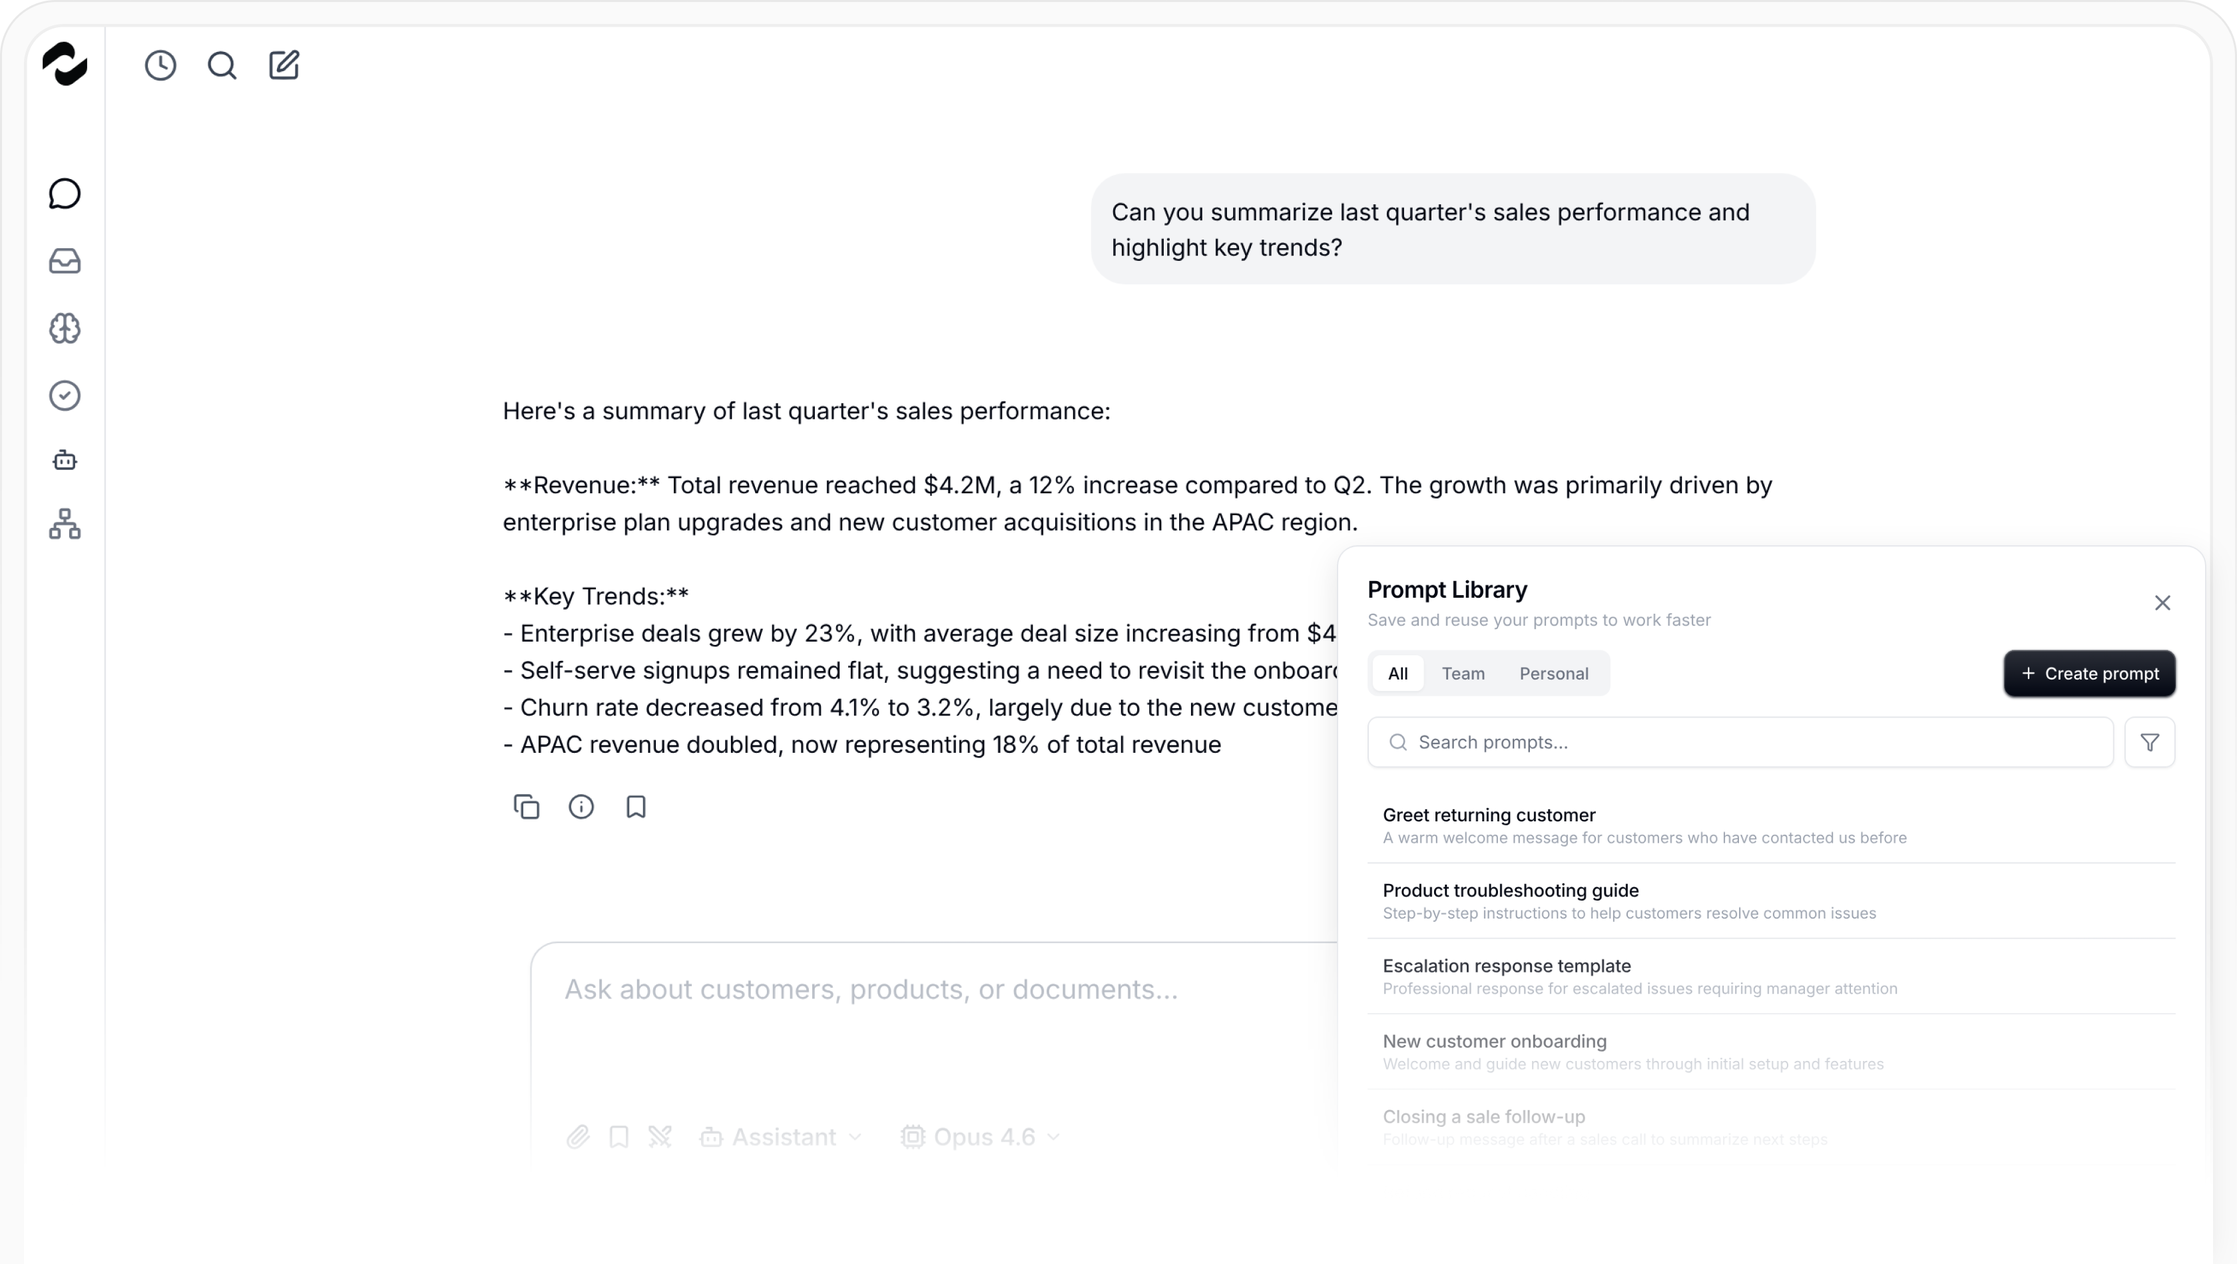
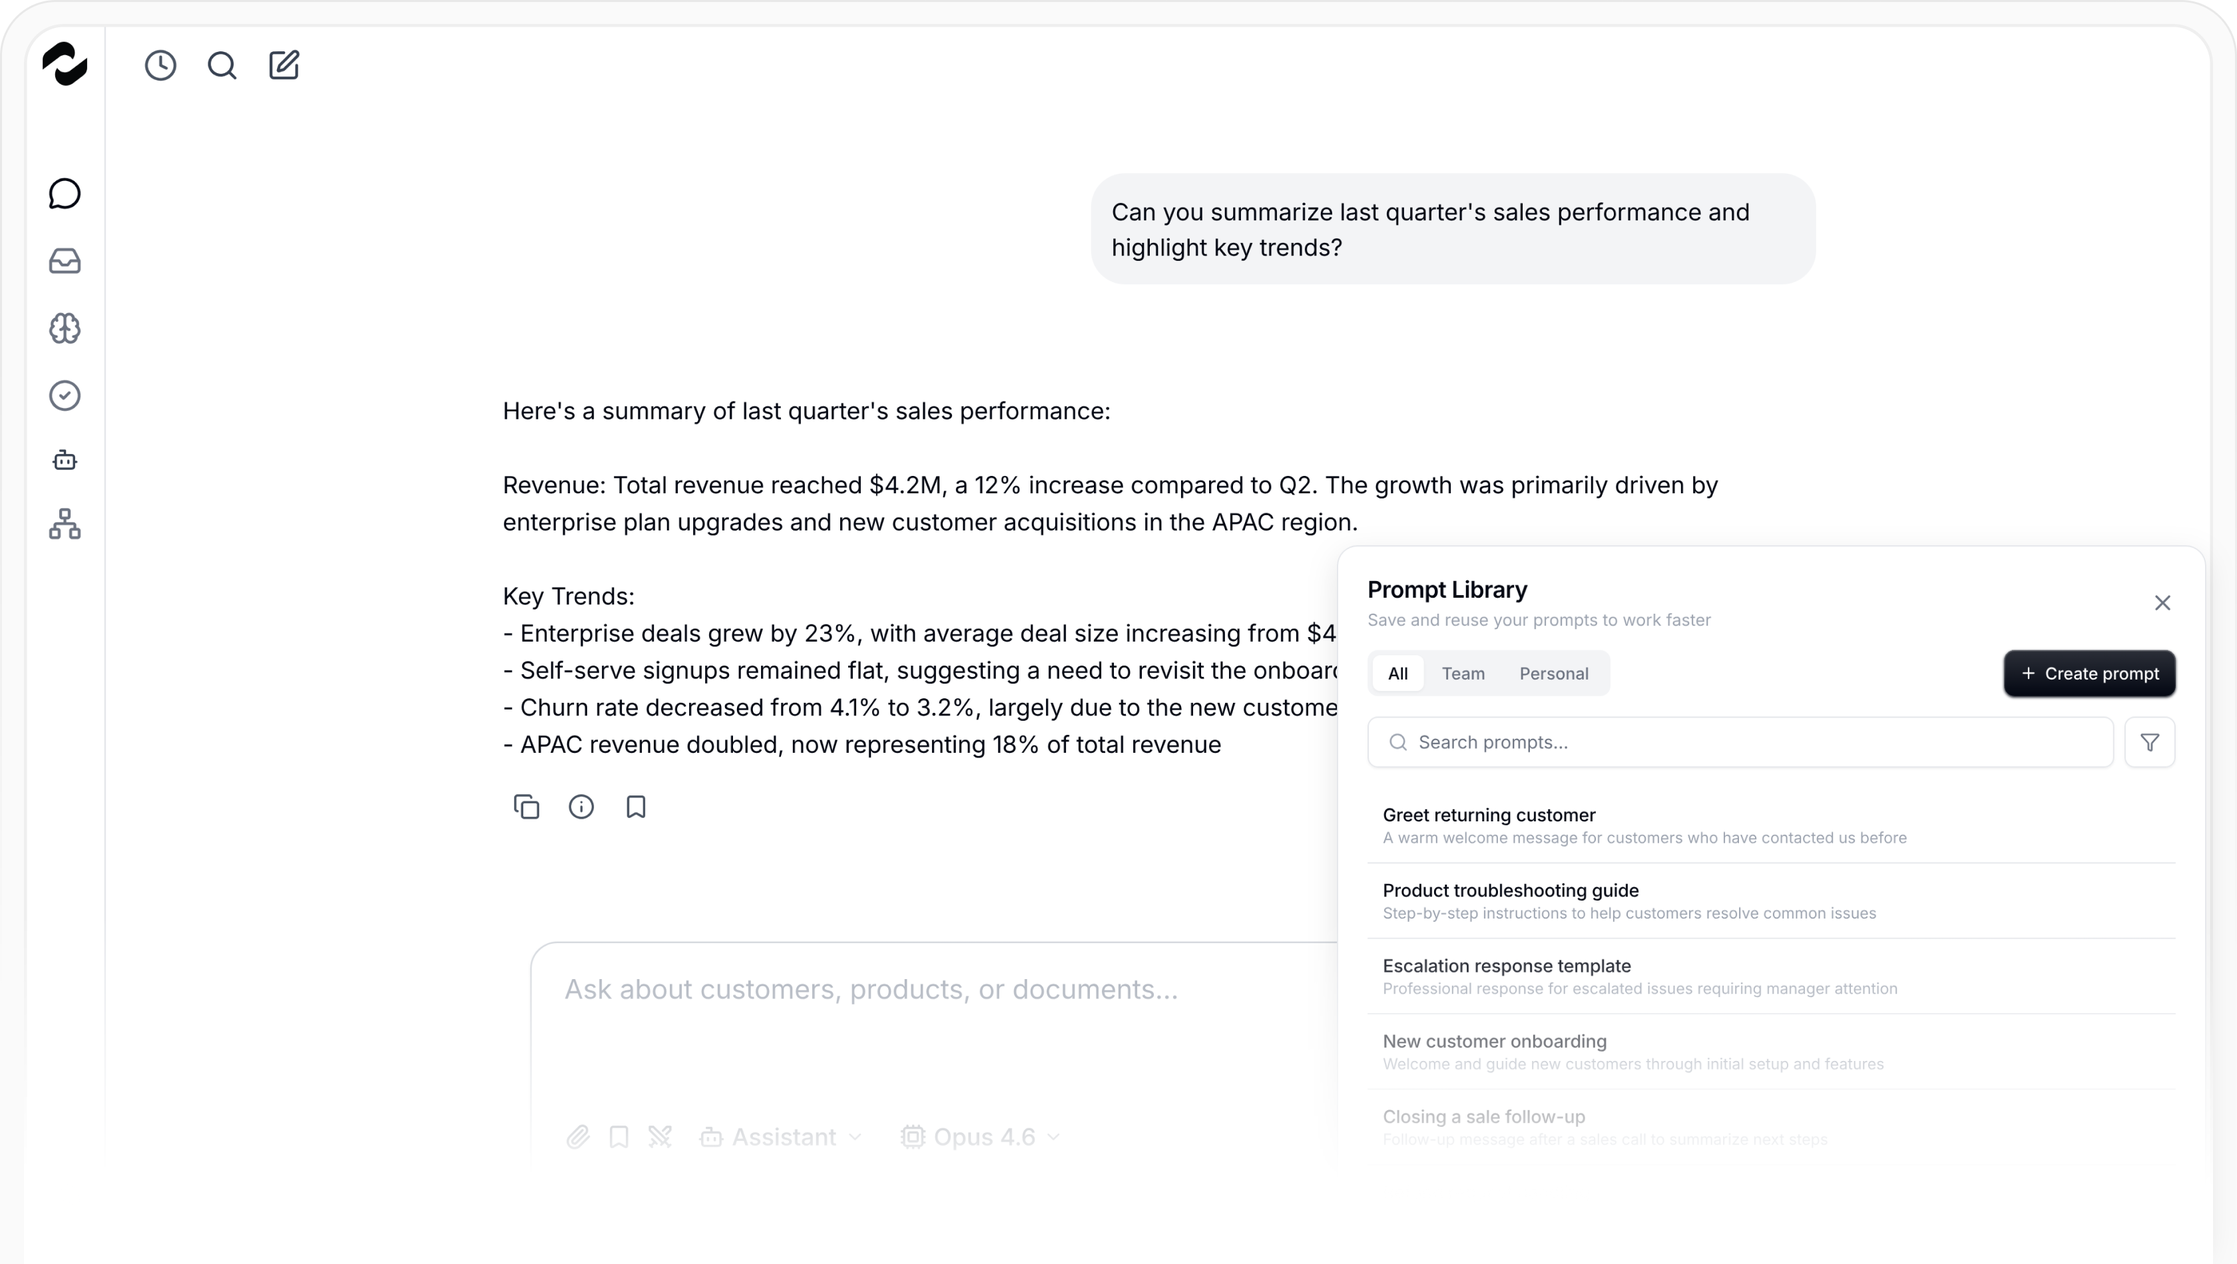
Raise form-label contrast, polish filter + email surfaces, refresh feature-chat image (#1834)

Changed region(s): [[0.2188, 0.3728, 0.7812, 0.4039], [0.2188, 0.466, 0.3125, 0.4971]]

diff --git a/services/platform/app/features/settings/account/components/account-form.tsx b/services/platform/app/features/settings/account/components/account-form.tsx
@@ -4,7 +4,6 @@ import { zodResolver } from '@hookform/resolvers/zod';
 import { Button } from '@tale/ui/button';
 import { SkeletonText } from '@tale/ui/skeleton';
 import { Skeletonize, useSkeleton } from '@tale/ui/skeleton-context';
-import { Text } from '@tale/ui/text';
 import { useCallback, useMemo, useState } from 'react';
 import { useForm } from 'react-hook-form';
 import { z } from 'zod';
@@ -55,8 +54,7 @@ interface SetPasswordFormData {
 // wraps the real `SettingsPage narrow` view in `<Skeletonize>` so the skeleton
 // inherits the SAME narrow centering and section structure (no horizontal
 // shift on load, and no empty-Input → real-value flash). Skeleton-aware leaves
-// (Input, Button) and `<SkeletonText>` for the read-only email mask themselves
-// while loading.
+// (Input, Button) mask themselves while loading.
 // =============================================================================
 export function AccountForm() {
   const { data: hasCredential, isLoading: isCredentialLoading } =
@@ -178,9 +176,11 @@ function ProfileSection() {
   );
 }
 
-/** Read-only email row. `Text` isn't a skeleton-aware leaf, so mask it with
- *  `<SkeletonText>` sized to the body line-height while loading — without this
- *  the value pops in after the user query resolves. */
+/** Read-only email row. Visually mirrors the `CopyableField` pill used for the
+ *  Organization ID elsewhere in settings — same bg, border, radius, padding —
+ *  so any "you can read this but can't edit it here" surface looks consistent.
+ *  Doesn't render a copy button because nobody copies their own email out of
+ *  Account settings. */
 function EmailField({ email }: { email: string }) {
   const { t: tSettings } = useT('settings');
   const loading = useSkeleton();
@@ -188,15 +188,9 @@ function EmailField({ email }: { email: string }) {
   return (
     <div className="flex max-w-sm flex-col gap-1.5">
       <Label>{tSettings('account.profile.email')}</Label>
-      {loading ? (
-        <div className="w-48 text-base leading-normal">
-          <SkeletonText />
-        </div>
-      ) : (
-        <Text as="span" variant="body">
-          {email}
-        </Text>
-      )}
+      <div className="bg-muted/40 ring-border text-muted-foreground flex w-full items-center rounded-lg border px-3 py-2.25 text-sm">
+        {loading ? <SkeletonText /> : email}
+      </div>
     </div>
   );
 }

diff --git a/services/platform/app/components/ui/forms/label.tsx b/services/platform/app/components/ui/forms/label.tsx
@@ -30,7 +30,7 @@ export const Label = forwardRef<
     <LabelPrimitive.Root
       ref={ref}
       className={cn(
-        'leading-none peer-disabled:cursor-not-allowed peer-disabled:opacity-70 text-xs md:text-sm font-medium text-muted-foreground',
+        'leading-none peer-disabled:cursor-not-allowed peer-disabled:opacity-70 text-xs md:text-sm font-medium text-foreground',
         error && 'text-destructive',
         className,
       )}

diff --git a/services/platform/app/components/ui/data-table/data-table-filters.tsx b/services/platform/app/components/ui/data-table/data-table-filters.tsx
@@ -186,7 +186,7 @@ export function DataTableFilters({
               modal={false}
               align="start"
               onOpenAutoFocus={(e) => e.preventDefault()}
-              contentClassName="p-0"
+              contentClassName="bg-card p-0"
               trigger={
                 <div>
                   <FilterButton

diff --git a/services/platform/app/components/ui/forms/form-section.tsx b/services/platform/app/components/ui/forms/form-section.tsx
@@ -32,7 +32,7 @@ export function FormSection({
           {label && (
             <span
               id={`${id}-label`}
-              className="text-muted-foreground text-xs font-medium md:text-sm"
+              className="text-foreground text-xs font-medium md:text-sm"
             >
               {label}
             </span>

diff --git a/designs/accessibility-audit.md b/designs/accessibility-audit.md
@@ -1,0 +1,159 @@
+# Accessibility — audit & changes
+
+Living doc for accessibility work across the platform. Companion to [`session-ux-changes.md`](session-ux-changes.md).
+
+## What kicked this off
+
+A user flagged that on the **System Prompt** settings page (governance → system prompt editor) the field labels read as the same color as the descriptions below them. Both were sitting at `text-muted-foreground`, so the hierarchy collapsed and the labels stopped doing their job.
+
+The weight was already correct (labels are `font-medium`); the issue was color, not weight.
+
+## Phase 1 — Fixed (this session)
+
+Bumped form-label contrast at the shared-component level so every form on the platform inherits the fix.
+
+- [`services/platform/app/components/ui/forms/label.tsx`](../services/platform/app/components/ui/forms/label.tsx) — `text-muted-foreground` → `text-foreground`
+- [`services/platform/app/components/ui/forms/form-section.tsx`](../services/platform/app/components/ui/forms/form-section.tsx) — same swap on the inline `<span>` used by `FormSection`
+
+Result: labels now sit at full foreground contrast, descriptions stay at muted, counters/hints can go even lighter via `text-tertiary` when needed. Three visible tiers instead of one.
+
+This was a tiny diff but ripples through every form because they all go through these two components.
+
+### Confidentiality footer — already fixed on `main`
+
+The Phase 2 sweep (below) flagged that the chat composer's data-notice footer had drifted under AA: `text-gray-400 dark:text-gray-500` resolved to 2.81:1 (light) and 4.06:1 (dark). Both below the 4.5:1 floor for 12px text.
+
+While we were drafting this audit, a separate commit landed on `main` that independently made the same swap (`text-gray-400 dark:text-gray-500` → `text-muted-foreground`) and re-added a small `ShieldAlert` icon next to the notice. After rebase, the footer reads at ~4.80:1 light / ~9.0:1 dark — AA-clean — without any change from this branch.
+
+Recording the finding here anyway so the doc captures both the original failure and how it resolved.
+
+## Phase 2 — Static sweep (this session)
+
+A programmatic pass over text contrast, icon labelling, hardcoded colors, and clickable non-buttons. Findings below. The runtime sweep (axe, Lighthouse, screen reader, focus/keyboard) is still pending — see "How to run the sweep".
+
+### Lint coverage
+
+`oxlint` is configured with the type-aware `jsx-a11y` ruleset enabled — 27 rules covering `aria-*` validity, `alt-text`, `label-has-associated-control`, role/interactivity mismatches, etc. The repo currently passes lint, so the categories those rules catch are clean by construction. The findings below are the things the rules **don't** check.
+
+### Color contrast — token map
+
+Tokens resolved from `packages/ui/src/globals.css`. Ratios computed against the resolved `--background`.
+
+| Token (light)        | Hex     | On `--background` (#FCFCFC) | Verdict |
+| -------------------- | ------- | --------------------------- | ------- |
+| `--foreground`       | #09090B | ~19.3:1                     | ✓ AAA   |
+| `--muted-foreground` | #71717A | ~4.80:1                     | ✓ AA    |
+
+| Token (dark)         | Hex     | On `--background` (#0A0A0A) | Verdict |
+| -------------------- | ------- | --------------------------- | ------- |
+| `--foreground`       | #FFFFFF | ~19.1:1                     | ✓ AAA   |
+| `--muted-foreground` | #9DA3AE | ~9.0:1                      | ✓ AAA   |
+
+So the platform's primary text tokens are AA-clean in both themes — the Phase 1 fix (labels at `text-foreground`, descriptions at `text-muted-foreground`) is now load-bearing on this.
+
+### Findings (rank: severity × surface area)
+
+**1. Icon-only buttons rely on tooltip content for naming.** 🟠 _23 buttons across chat, conversations, automations, message-editor, navigation pagination._
+
+Pattern: `<Tooltip content="..."><Button size="icon"><Icon /></Button></Tooltip>` with no `aria-label` on the button.
+
+The platform `Tooltip` ([`services/platform/app/components/ui/overlays/tooltip.tsx`](../services/platform/app/components/ui/overlays/tooltip.tsx)) wraps Radix `TooltipPrimitive`. Radix tooltips wire content via **`aria-describedby`**, not `aria-label`. That makes the tooltip a **description**, not the button's **name**. Screen readers announce these as "button, [description]" with no accessible name — failing **WCAG 4.1.2 (Name, Role, Value)** in addition to often failing 2.5.3 (Label in Name).
+
+Where it's clean: roughly 71 of 94 icon buttons already set `aria-label` directly (settings/governance editors, vendor/customer dialogs, chat composer model/agent selectors, etc).
+
+Where it's missing (23 occurrences in 9 files):
+
+- [`features/chat/components/message-bubble.tsx`](../services/platform/app/features/chat/components/message-bubble.tsx) (7) — copy, info, fork, bookmark, edit, save-prompt
+- [`features/chat/components/voice-mode-toggle.tsx`](../services/platform/app/features/chat/components/voice-mode-toggle.tsx)
+- [`features/conversations/components/message-editor/editor-action-bar.tsx`](../services/platform/app/features/conversations/components/message-editor/editor-action-bar.tsx) (4)
+- [`features/conversations/components/message-editor/improve-mode.tsx`](../services/platform/app/features/conversations/components/message-editor/improve-mode.tsx)
+- [`features/automations/components/automation-steps.tsx`](../services/platform/app/features/automations/components/automation-steps.tsx) (5)
+- [`features/automations/executions/executions-table.tsx`](../services/platform/app/features/automations/executions/executions-table.tsx)
+- [`features/documents/components/rag-status-badge.tsx`](../services/platform/app/features/documents/components/rag-status-badge.tsx)
+- [`features/settings/integrations/components/sso-config/role-mapping-section.tsx`](../services/platform/app/features/settings/integrations/components/sso-config/role-mapping-section.tsx)
+- [`components/ui/navigation/pagination.tsx`](../services/platform/app/components/ui/navigation/pagination.tsx) — the previous/next chevron buttons
+- [`components/ui/data-display/json-viewer.tsx`](../services/platform/app/components/ui/data-display/json-viewer.tsx)
+
+**Fix options (pick one consistently):**
+
+1. Add `aria-label` to each button that matches the tooltip content. Verbose but unambiguous.
+2. Update the platform `Tooltip` to forward `content` as the trigger's `aria-label` when `children` is an icon-only button (heuristic: child has no text). Tighter blast radius.
+
+Recommend (1) for first pass — easy to grep, lint won't help, and the explicit attribute documents intent. Reach for (2) if the pattern keeps reappearing.
+
+**2. Hardcoded `text-gray-*` outside the data-notice case.** 🟡
+
+File: [`services/platform/app/features/conversations/components/conversation-panel.tsx`](../services/platform/app/features/conversations/components/conversation-panel.tsx#L585) — three sites use `text-[13px] text-gray-500 dark:text-gray-400`.
+
+- Light: `#6B7280` on `#FCFCFC` ≈ **4.83:1** — passes AA
+- Dark: `#9CA3AF` on `#0A0A0A` ≈ **8.4:1** — passes AAA
+
+Functionally fine, but it's hardcoded gray bypassing the token system. Worth a follow-up to swap for `text-muted-foreground` so future theme changes don't strand these.
+
+**3. Inline hardcoded colors in the global error display.** 🟢 _Defensible — explicitly inlined._
+
+File: [`services/platform/app/components/error-boundaries/displays/global-error-display.tsx`](../services/platform/app/components/error-boundaries/displays/global-error-display.tsx)
+
+All eight color values cross-checked against `--background` in their respective themes:
+
+| Element                      | Light                            | Dark                             | Verdict    |
+| ---------------------------- | -------------------------------- | -------------------------------- | ---------- |
+| Heading text                 | `#111827` on `#FFFFFF` (~16.7:1) | `#F3F4F6` on `#030712` (~18.2:1) | ✓ AAA      |
+| Muted paragraph + small text | `#6B7280` on `#FFFFFF` (~4.83:1) | `#9CA3AF` on `#030712` (~9.5:1)  | ✓ AA / AAA |
+| Primary button               | `#FFFFFF` on `#030712` (~19.8:1) | `#030712` on `#FFFFFF` (~19.8:1) | ✓ AAA      |
+| Secondary button             | `#374151` on `#E5E7EB` (~10.4:1) | `#D1D5DB` on `#374151` (~5.06:1) | ✓ AAA / AA |
+| Support link                 | `#056CFF` on `#FFFFFF` (~4.99:1) | `#5098FF` on `#030712` (~6.5:1)  | ✓ AA       |
+| Error detail message         | `#DC2626` on `#FEF2F2` (~4.86:1) | `#F87171` on `#2D1F1F` (~5.4:1)  | ✓ AA       |
+
+These are intentionally inlined so the boundary renders when CSS is broken — that constraint is documented in the file (`global-error-display.tsx:122-124`). Leave as-is.
+
+### Categories not yet swept (still in "How to run the sweep")
+
+1. **Color contrast** — run axe DevTools or Lighthouse on representative pages (chat, settings, knowledge, agents) in **both** themes. Tale aims for WCAG AA per AGENTS.md (4.5:1 for text, 3:1 for UI components). Some muted-foreground combinations may dip below that in dark mode.
+2. **Label–input association** — every `<input>` needs a real `<label for="…">` or an `aria-labelledby`. Easy to miss with custom field components.
+3. **Focus reachability + visibility** — every interactive element reachable via Tab, with a visible focus ring. The custom popovers / dropdowns we've polished are usual offenders.
+4. **Heading hierarchy** — page H1 → section H2 → subsection H3, no skipped levels. Settings pages often skip.
+5. **Live regions** — toasts and validation errors need `role="status"` / `aria-live="polite"` so screen readers announce them.
+6. **Hit targets** — every clickable thing ≥ 24×24 px per WCAG 2.5.5. Icon-only buttons in dense rows are the usual fail.
+7. **Keyboard navigation in overlays** — Escape closes menus/popovers; arrow keys move within menus; focus returns to the trigger on close.
+
+## How to run the sweep
+
+For each page in scope:
+
+1. Open in Chrome with axe DevTools and Lighthouse (Accessibility audit).
+2. Run **both** in light and dark mode — contrast results differ.
+3. Tab through every interactive element. Note any that the focus ring skips or that have no visible focus state.
+4. Open every overlay (dropdown, popover, modal, sheet). Verify Escape closes, focus traps where it should, and focus restores to the trigger on close.
+5. Run a screen reader pass (VoiceOver on macOS) over one form and one chat — confirm labels, descriptions, and error messages announce.
+
+Capture findings in a single markdown file (one per page or one consolidated), then triage into PRs grouped by surface (forms, navigation, overlays, etc).
+
+## Token rules
+
+A reusable hierarchy for any text inside a form/section:
+
+| Role                     | Token                              | Notes                                                                                      |
+| ------------------------ | ---------------------------------- | ------------------------------------------------------------------------------------------ |
+| Field label              | `text-foreground`                  | Full contrast. `font-medium`.                                                              |
+| Field description / help | `text-muted-foreground`            | Sentence-case explanation under the label.                                                 |
+| Counter / inline hint    | `text-tertiary`                    | Char counts, ratio strings, "(optional)" markers.                                          |
+| Error message            | `text-destructive`                 | Inline validation only. Always pair with `aria-invalid` and `role="alert"` on the message. |
+| Section header           | `text-foreground` + heavier weight | Above a group of fields.                                                                   |
+| Section description      | `text-muted-foreground`            | One line under the section header.                                                         |
+
+Same rules apply outside forms; they just happen to bite hardest in forms because that's where three text tiers sit closest together.
+
+## Open todos
+
+- [x] Compute WCAG contrast for the primary text tokens
+- [x] Static scan: icon-only buttons missing accessible name
+- [x] Static scan: hardcoded `text-gray-*` outside email-safe contexts
+- [x] Static scan: clickable non-`<button>` divs (none in app routes)
+- [ ] **Phase 3 (next):** fix the two remaining findings
+  - [ ] Add `aria-label` to the 23 icon buttons relying on tooltip-as-description
+  - [ ] Swap the three `conversation-panel.tsx` gray sites for `text-muted-foreground`
+- [ ] Programmatic a11y sweep on chat, settings, knowledge, agents (both themes) — axe / Lighthouse
+- [ ] Verify modal/popover focus trap and Escape behavior across the app
+- [ ] Audit icon-only buttons for ≥ 24×24 hit target
+- [ ] Confirm all error messages have `role="alert"` + are linked via `aria-describedby`
